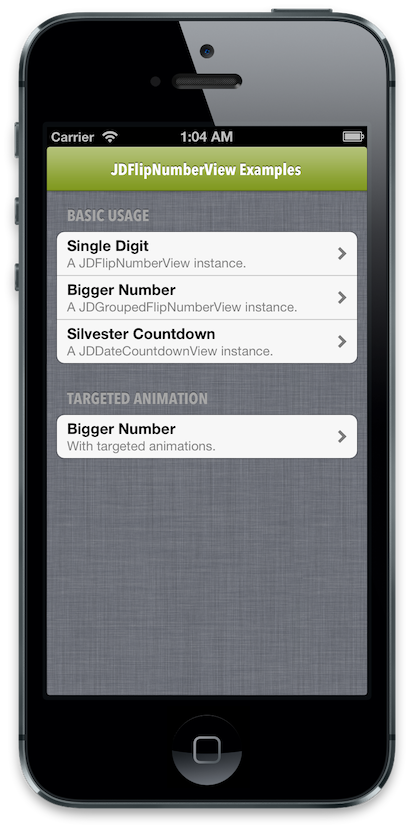
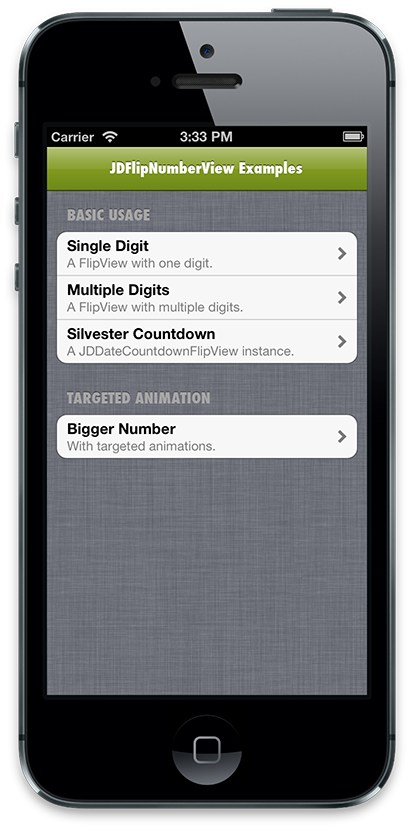
updated tableView texts

diff --git a/ExampleProject/FlipNumberViewExample/FVEViewController.m b/ExampleProject/FlipNumberViewExample/FVEViewController.m
@@ -78,13 +78,13 @@
     if(indexPath.section == 0) {
         if(indexPath.row == 0) {
             cell.textLabel.text = @"Single Digit";
-            cell.detailTextLabel.text = @"A JDFlipNumberView instance.";
+            cell.detailTextLabel.text = @"A FlipView with one digit.";
         } else if(indexPath.row == 1) {
-            cell.textLabel.text = @"Bigger Number";
-            cell.detailTextLabel.text = @"A JDGroupedFlipNumberView instance.";
+            cell.textLabel.text = @"Multiple Digits";
+            cell.detailTextLabel.text = @"A FlipView with multiple digits.";
         } else {
             cell.textLabel.text = @"Silvester Countdown";
-            cell.detailTextLabel.text = @"A JDDateCountdownView instance.";
+            cell.detailTextLabel.text = @"A JDDateCountdownFlipView instance.";
         }
     } else {
         cell.textLabel.text = @"Bigger Number";
